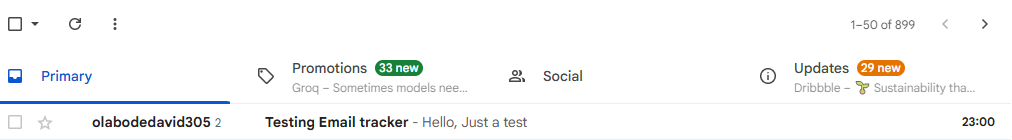
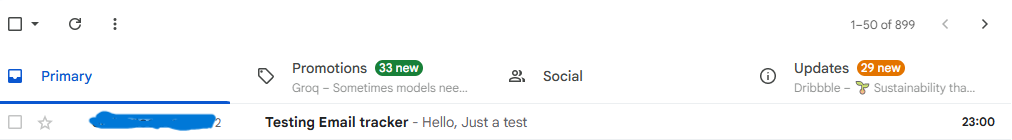
made new changes to the base url to enable tracking and sending notification

Changed region(s): [[0.0613, 0.7714, 0.2144, 0.9429]]

diff --git a/README.md b/README.md
@@ -1,24 +1,144 @@
 
-## Key Features Implemented:
+# Email Tracker
 
-1. **Email Tracking**: Embeds invisible tracking pixels in emails
-2. **IP Geolocation**: Uses multiple free APIs to get location data
-3. **Device Detection**: Parses user-agent strings for device/browser info
-4. **Notification System**: Sends detailed notifications when emails are opened
-5. **Security**: Proper IP extraction behind proxies, input sanitization
-6. **Scalability**: Clean architecture with separation of concerns
+Email Tracker is a Go-based service for tracking email opens, gathering geolocation and device analytics, and sending real-time notifications when emails are opened. It is designed with extensibility, security, and clean architecture in mind.
 
-## To Enhance Further:
+---
 
-1. Add database persistence (PostgreSQL/Redis)
-2. Implement authentication for the API
-3. Add rate limiting
-4. Create a web dashboard
-5. Add more detailed analytics
-6. Implement email templates
-7. Add support for multiple SMTP providers
-8. Add webhook support for real-time notifications
+## Table of Contents
+- [Features](#features)
+- [Architecture Overview](#architecture-overview)
+- [Setup & Installation](#setup--installation)
+- [Usage Guide](#usage-guide)
+- [API Endpoints](#api-endpoints)
+- [Screenshots](#screenshots)
+- [Enhancements & Roadmap](#enhancements--roadmap)
 
-This system provides a robust foundation for email tracking while maintaining good architectural practices and extensibility."# email-tracker" 
-"# email-tracker" 
-"# email-tracker" 
+---
+
+## Features
+
+- **Email Tracking**: Embeds invisible tracking pixels in outgoing emails to detect when and where emails are opened.
+- **IP Geolocation**: Uses multiple free APIs to enrich open events with location data (country, city, ISP, etc).
+- **Device & Browser Detection**: Parses user-agent strings to identify device type, browser, and OS.
+- **Notification System**: Sends detailed notifications (via email) when tracked emails are opened.
+- **Security**: Extracts real client IPs behind proxies/CDNs, sanitizes input, and masks sensitive data.
+- **Scalable & Extensible**: Modular codebase with clear separation of concerns for easy extension.
+
+---
+
+## Architecture Overview
+
+The system is organized into the following main components:
+
+- **main.go**: Entry point, server setup, and route definitions.
+- **config/**: Configuration loading from environment variables.
+- **models/**: Data models for emails and tracking events.
+- **service/**: Business logic for sending tracked emails.
+- **tracker/**: Tracking pixel generation, event logging, and notification triggers.
+- **notification/**: Email notification sender and template rendering.
+- **utils/**: Helper functions for geolocation, device parsing, and validation.
+- **templates/**: HTML templates for emails, notifications, and tracking pixels.
+
+---
+
+## Setup & Installation
+
+1. **Clone the repository:**
+	```sh
+	git clone <repo-url>
+	cd email-tracker
+	```
+2. **Configure environment variables:**
+	- Copy `.env.example` to `.env` and fill in SMTP and API keys as needed.
+3. **Install dependencies:**
+	```sh
+	go mod tidy
+	```
+4. **Run the server:**
+	```sh
+	go run main.go
+	```
+5. **Server will start on the configured port (default: 8080).**
+
+---
+
+## Usage Guide
+
+### 1. Sending a Tracked Email
+Send a POST request to `/api/send-email` with the following JSON body:
+
+```json
+{
+  "to": ["recipient@example.com"],
+  "subject": "Test Email",
+  "body": "Hello, this is a tracked email!",
+  "notify_on_open": true,
+  "notify_email": "your@email.com"
+}
+```
+
+The system will embed a tracking pixel and send the email. When the recipient opens the email, an open event is logged and a notification is sent (if enabled).
+
+### 2. Tracking Pixel
+The tracking pixel is a 1x1 transparent image embedded in the email body:
+
+```html
+<img src="https://your-domain/track/{tracking_id}?t={timestamp}" width="1" height="1" style="display:none;" />
+```
+
+### 3. Viewing Tracking Stats
+GET `/api/tracking/{tracking_id}` returns JSON with open events, geolocation, device, and browser info.
+
+### 4. Dashboard
+Visit `/dashboard` for a web-based overview (basic template, can be extended).
+
+---
+
+## API Endpoints
+
+| Method | Endpoint                | Description                       |
+|--------|-------------------------|-----------------------------------|
+| GET    | `/health`               | Health check                      |
+| POST   | `/api/send-email`       | Send a tracked email              |
+| GET    | `/track/{id}`           | Tracking pixel endpoint           |
+| GET    | `/api/tracking/{id}`    | Get tracking stats for an email   |
+| GET    | `/dashboard`            | Dashboard (HTML)                  |
+
+---
+
+## Screenshots
+
+### 1. Dashboard Overview
+![Dashboard](Screenshot%202026-02-26%20230133.png)
+
+### 2. Email Sent Confirmation
+![Email Sent](Screenshot%202026-02-26%20230254.png)
+
+### 3. Tracking Pixel Request
+![Tracking Pixel](Screenshot%202026-02-26%20230324.png)
+
+### 4. Notification Email Example
+![Notification Email](Screenshot%202026-02-26%20230408.png)
+
+### 5. Tracking Event Details
+![Tracking Event](Screenshot%202026-02-26%20230440.png)
+
+### 6. Geolocation & Device Analytics
+![Geo & Device](Screenshot%202026-02-27%20111209.png)
+
+### 7. API Usage Example
+![API Usage](Screenshot%202026-02-27%20115410.png)
+
+---
+
+## Enhancements & Roadmap
+
+- Add database persistence (PostgreSQL/Redis)
+- Implement authentication for the API
+- Add rate limiting
+- Create a richer web dashboard
+- Add more detailed analytics and reporting
+- Support for multiple SMTP providers
+- Webhook support for real-time notifications
+
